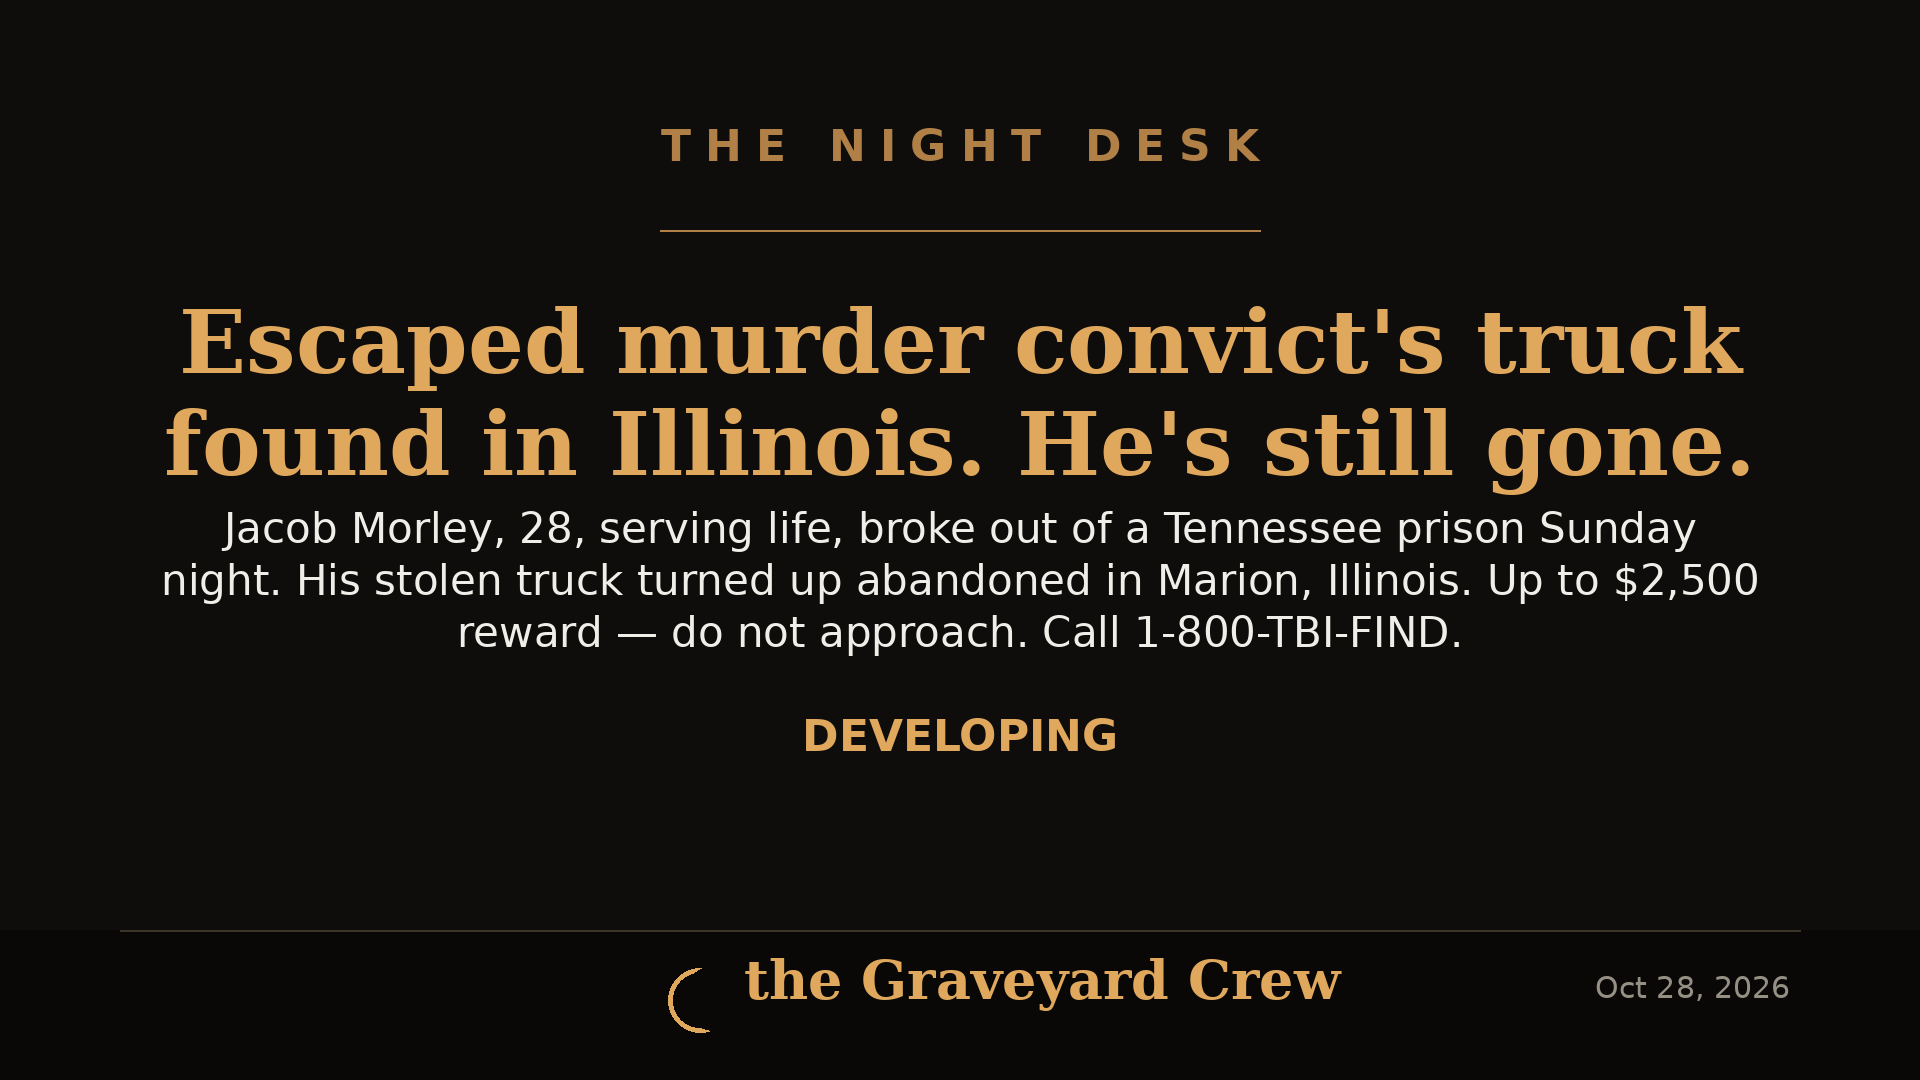
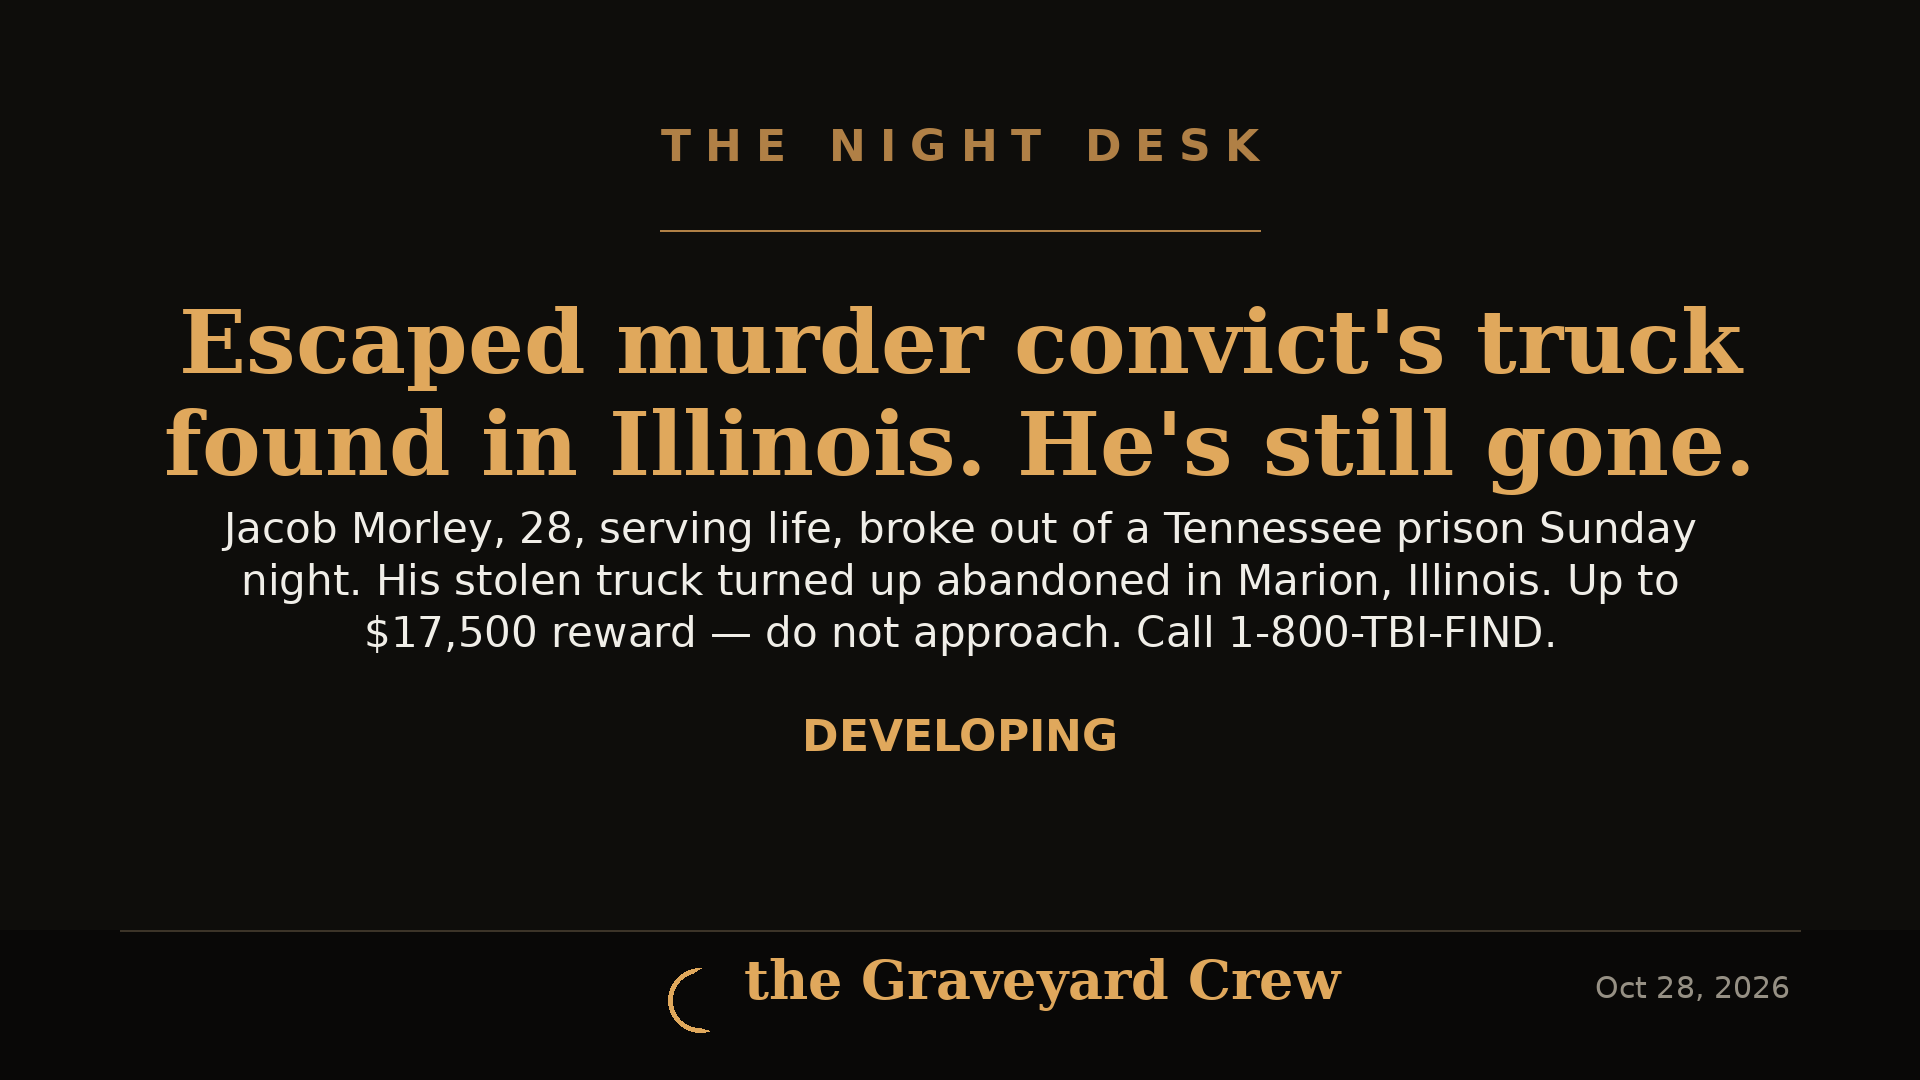
morley: reward updated to $17,500, card rebuilt

Changed region(s): [[0.0938, 0.5194, 0.9375, 0.6111]]

diff --git a/articles/morley-manhunt-illinois-truck.html b/articles/morley-manhunt-illinois-truck.html
@@ -4,21 +4,21 @@
 <meta charset="utf-8">
 <meta name="viewport" content="width=device-width,initial-scale=1">
 <title>Manhunt crosses state lines: escaped Tennessee murder convict&#x27;s stolen truck found abandoned in Illinois &mdash; The Night Desk</title>
-<meta name="description" content="Jacob Allen Morley, 28, serving life for the 2022 murder of his coworker Cody Birchfield, escaped a Tennessee prison Sunday night. The truck he stole was found abandoned early Tuesday in Marion, Illinois — Morley himself is still missing, and the TBI is offering up to $2,500 for information leading to his arrest.">
+<meta name="description" content="Jacob Allen Morley, 28, serving life for the 2022 murder of his coworker Cody Birchfield, escaped a Tennessee prison Sunday night. The truck he stole was found abandoned early Tuesday in Marion, Illinois — Morley himself is still missing, and a $17,500 reward is now offered for information leading to his arrest.">
 <link rel="canonical" href="https://midnightmichigan.github.io/night-desk/articles/morley-manhunt-illinois-truck.html">
 <link rel="alternate" type="application/rss+xml" href="https://midnightmichigan.github.io/night-desk/feed.xml">
 <meta property="og:type" content="article">
 <meta property="og:site_name" content="The Night Desk">
 <meta property="og:title" content="Manhunt crosses state lines: escaped Tennessee murder convict&#x27;s stolen truck found abandoned in Illinois">
-<meta property="og:description" content="Jacob Allen Morley, 28, serving life for the 2022 murder of his coworker Cody Birchfield, escaped a Tennessee prison Sunday night. The truck he stole was found abandoned early Tuesday in Marion, Illinois — Morley himself is still missing, and the TBI is offering up to $2,500 for information leading to his arrest.">
+<meta property="og:description" content="Jacob Allen Morley, 28, serving life for the 2022 murder of his coworker Cody Birchfield, escaped a Tennessee prison Sunday night. The truck he stole was found abandoned early Tuesday in Marion, Illinois — Morley himself is still missing, and a $17,500 reward is now offered for information leading to his arrest.">
 <meta property="og:url" content="https://midnightmichigan.github.io/night-desk/articles/morley-manhunt-illinois-truck.html">
 <meta property="og:image" content="https://midnightmichigan.github.io/night-desk/assets/img/morley-manhunt-card.png">
 <meta property="article:published_time" content="2026-10-28">
 <meta name="twitter:card" content="summary_large_image">
 <meta name="twitter:title" content="Manhunt crosses state lines: escaped Tennessee murder convict&#x27;s stolen truck found abandoned in Illinois">
-<meta name="twitter:description" content="Jacob Allen Morley, 28, serving life for the 2022 murder of his coworker Cody Birchfield, escaped a Tennessee prison Sunday night. The truck he stole was found abandoned early Tuesday in Marion, Illinois — Morley himself is still missing, and the TBI is offering up to $2,500 for information leading to his arrest.">
+<meta name="twitter:description" content="Jacob Allen Morley, 28, serving life for the 2022 murder of his coworker Cody Birchfield, escaped a Tennessee prison Sunday night. The truck he stole was found abandoned early Tuesday in Marion, Illinois — Morley himself is still missing, and a $17,500 reward is now offered for information leading to his arrest.">
 <meta name="twitter:image" content="https://midnightmichigan.github.io/night-desk/assets/img/morley-manhunt-card.png">
-<script type="application/ld+json">{"@context": "https://schema.org", "@type": "NewsArticle", "headline": "Manhunt crosses state lines: escaped Tennessee murder convict's stolen truck found abandoned in Illinois", "description": "Jacob Allen Morley, 28, serving life for the 2022 murder of his coworker Cody Birchfield, escaped a Tennessee prison Sunday night. The truck he stole was found abandoned early Tuesday in Marion, Illinois — Morley himself is still missing, and the TBI is offering up to $2,500 for information leading to his arrest.", "url": "https://midnightmichigan.github.io/night-desk/articles/morley-manhunt-illinois-truck.html", "datePublished": "2026-10-28", "publisher": {"@type": "Organization", "name": "The Night Desk", "url": "https://midnightmichigan.github.io/night-desk/"}, "image": ["https://midnightmichigan.github.io/night-desk/assets/img/morley-manhunt-card.png"]}</script>
+<script type="application/ld+json">{"@context": "https://schema.org", "@type": "NewsArticle", "headline": "Manhunt crosses state lines: escaped Tennessee murder convict's stolen truck found abandoned in Illinois", "description": "Jacob Allen Morley, 28, serving life for the 2022 murder of his coworker Cody Birchfield, escaped a Tennessee prison Sunday night. The truck he stole was found abandoned early Tuesday in Marion, Illinois — Morley himself is still missing, and a $17,500 reward is now offered for information leading to his arrest.", "url": "https://midnightmichigan.github.io/night-desk/articles/morley-manhunt-illinois-truck.html", "datePublished": "2026-10-28", "publisher": {"@type": "Organization", "name": "The Night Desk", "url": "https://midnightmichigan.github.io/night-desk/"}, "image": ["https://midnightmichigan.github.io/night-desk/assets/img/morley-manhunt-card.png"]}</script>
 <link rel="stylesheet" href="../assets/css/style.css">
 </head>
 <body>
@@ -51,18 +51,18 @@
 <p>He was convicted in the killing of <strong>Cody Birchfield</strong>, who was initially reported missing in February 2022, according to the Carter County Sheriff&#x27;s Office. Birchfield&#x27;s body was found weeks after he went missing, in a box under Morley&#x27;s house, The Associated Press reported.</p>
 <p>A cousin of Birchfield&#x27;s told CNN that Morley&#x27;s life sentence gave the family &quot;a small sense of closure and the reassurance that justice had been served&quot; — and that learning of his escape has reopened their &quot;deepest wounds.&quot; The family urged anyone with information to come forward, and asked that Cody be remembered &quot;not for the tragedy of his death, but for the warmth, kindness, and decency of his life.&quot;</p>
 <h2>What to do if you see him</h2>
-<p>Morley is now on the <strong>TBI&#x27;s Most Wanted list</strong>, with a <strong>reward of up to $2,500</strong> for information leading to his arrest. He is described as 5 feet 11 inches tall, about 240 pounds, with brown hair and green eyes, and should be considered dangerous.</p>
-<p><strong>Do not approach him. Call 911 or 1-800-TBI-FIND.</strong></p>
+<p>Morley is now on the <strong>TBI&#x27;s Most Wanted list</strong>, with a <strong>$17,500 reward</strong> for information leading to his arrest — Gov. Bill Lee raised the state&#x27;s reward to $10,000 on Oct. 28, the U.S. Marshals Service added $5,000, and the TBI contributed another $2,500 on Oct. 29 (The Tennessean). He is described as 5 feet 11 inches tall, about 240 pounds, with brown hair and green eyes, and should be considered dangerous. As of Oct. 29 he remained at large.</p>
+<p><strong>Do not approach him. Call 911, TDOC at 844-832-3463, or TBI at 1-800-TBI-FIND.</strong></p>
 <p><em>This is a developing story. The Night Desk will update this article as the manhunt continues.</em></p>
 <!-- AD SLOT: in-article-bottom -->
 <p class="source-line">Source: CNN &mdash; <a href="https://kioncentralcoast.com/news/national-world/cnn-national/2026/10/28/manhunt-for-escaped-tennessee-murder-convict-crosses-state-lines-after-his-stolen-truck-is-found-abandoned-in-illinois/">read the original report</a></p>
 <aside class="related"><h3>RELATED STORIES</h3><div class="related-grid"><div class="related-card"><img src="../assets/img/franklin-montgomery-barricade-card.png" alt="" loading="lazy"><div class="rt">
 <p class="rdate">October 08, 2026</p>
-<a href="franklin-township-nj-montgomery-murder-barricade.html">Barricade ends in murder charge: NJ man accused in stabbing death after overnight standoff</a></div></div><div class="related-card"><img src="../assets/img/brown-shooting-card.png" alt="" loading="lazy"><div class="rt">
+<a href="franklin-township-nj-montgomery-murder-barricade.html">Barricade ends in murder charge: NJ man accused in stabbing death after overnight standoff</a></div></div><div class="related-card"><img src="../assets/img/auburn-lane-cold-case-card.png" alt="" loading="lazy"><div class="rt">
+<p class="rdate">October 06, 2026</p>
+<a href="auburn-lane-cold-case.html">Auburn Cold Case: $5,000 Reward Offered in the 2017 Killing of Herman &quot;Ce-Ce&quot; Lane</a></div></div><div class="related-card"><img src="../assets/img/brown-shooting-card.png" alt="" loading="lazy"><div class="rt">
 <p class="rdate">October 05, 2026</p>
-<a href="brown-university-shooting-manhunt.html">Brown University shooting manhunt: FBI offers $50,000 reward as new suspect video released</a></div></div><div class="related-card"><img src="../assets/img/knoxville-huff-truck.jpg" alt="" loading="lazy"><div class="rt">
-<p class="rdate">October 05, 2026</p>
-<a href="knoxville-huff-manhunt-day-2.html">Manhunt Day 2: Corey Huff Fled Into the Woods After Police Pursuit</a></div></div></div></aside>
+<a href="brown-university-shooting-manhunt.html">Brown University shooting manhunt: FBI offers $50,000 reward as new suspect video released</a></div></div></div></aside>
 <nav class="prevnext"><a href="bundy-melissa-smith-dna.html">&larr; Newer: 52 years later, DNA ties Ted Bundy to the murder of Melissa Ann Smith</a><a class="pn-next" href="spokane-turner-cold-case-arrest.html">Older: Nearly 40 years later: arrest in the 1986 Spokane cold-case murder of Mary Ann Turner &rarr;</a></nav>
 <a class="back" href="../index.html">&larr; Back to latest stories</a>
 </article></main>

diff --git a/articles/ai-face-match-wrongful-arrest.html b/articles/ai-face-match-wrongful-arrest.html
@@ -68,11 +68,11 @@
 <p class="source-line">Source: Fox News Digital / WVLT &mdash; <a href="https://www.wvlt.tv/2026/09/17/east-tn-woman-mistakenly-jailed-months-after-ai-flagged-her-bank-fraud-suspect-lawsuit-says/">read the original report</a></p>
 <aside class="related"><h3>RELATED STORIES</h3><div class="related-grid"><div class="related-card"><img src="../assets/img/chicago-teens-charged-card.png" alt="" loading="lazy"><div class="rt">
 <p class="rdate">October 03, 2026</p>
-<a href="chicago-teens-charged-murder.html">2 Teens Charged in January Murder of 17-Year-Old Chicago Girl</a></div></div><div class="related-card"><img src="../assets/img/louise-lucas-indicted-card.png" alt="" loading="lazy"><div class="rt">
+<a href="chicago-teens-charged-murder.html">2 Teens Charged in January Murder of 17-Year-Old Chicago Girl</a></div></div><div class="related-card"><img src="../assets/img/morley-manhunt-card.png" alt="" loading="lazy"><div class="rt">
+<p class="rdate">October 28, 2026</p>
+<a href="morley-manhunt-illinois-truck.html">Manhunt crosses state lines: escaped Tennessee murder convict&#x27;s stolen truck found abandoned in Illinois</a></div></div><div class="related-card"><img src="../assets/img/louise-lucas-indicted-card.png" alt="" loading="lazy"><div class="rt">
 <p class="rdate">October 22, 2026</p>
-<a href="louise-lucas-indicted.html">Virginia State Sen. L. Louise Lucas Indicted on Federal Racketeering, Marijuana Charges</a></div></div><div class="related-card"><img src="../assets/img/smyrna-murder-suspect-caught-card.png" alt="" loading="lazy"><div class="rt">
-<p class="rdate">October 09, 2026</p>
-<a href="smyrna-murder-suspect-caught-car-breakins.html">Wanted for Murder Since July — Caught Breaking Into Parked Cars</a></div></div></div></aside>
+<a href="louise-lucas-indicted.html">Virginia State Sen. L. Louise Lucas Indicted on Federal Racketeering, Marijuana Charges</a></div></div></div></aside>
 <nav class="prevnext"><a href="northridge-artist-lounge-shooting-suspect-at-large.html">&larr; Newer: Two Young People Shot Dead at Packed Open Mic Night in Northridge — Gunman Still at Large</a><a class="pn-next" href="medical-plane-nantucket.html">Older: BREAKING: Medical plane with 6 aboard vanishes near Nantucket — debris found tonight &rarr;</a></nav>
 <a class="back" href="../index.html">&larr; Back to latest stories</a>
 </article></main>

diff --git a/articles/auburn-lane-cold-case.html b/articles/auburn-lane-cold-case.html
@@ -63,9 +63,9 @@
 <p class="rdate">October 24, 2026</p>
 <a href="spokane-turner-cold-case-arrest.html">Nearly 40 years later: arrest in the 1986 Spokane cold-case murder of Mary Ann Turner</a></div></div><div class="related-card"><img src="../assets/img/grant-booking-1.jpg" alt="" loading="lazy"><div class="rt">
 <p class="rdate">October 16, 2026</p>
-<a href="buck-cold-case-arrest.html">Arrest in 1995 killing of Angela &quot;Angie&quot; Buck — 31-year cold case cracked in Iowa</a></div></div><div class="related-card"><img src="../assets/img/phoenix-midnight-shooting-card.png" alt="" loading="lazy"><div class="rt">
-<p class="rdate">October 03, 2026</p>
-<a href="phoenix-midnight-shooting-arrest.html">Midnight shooting in Phoenix: driver shot dead behind the wheel, suspect cornered in nearby apartment</a></div></div></div></aside>
+<a href="buck-cold-case-arrest.html">Arrest in 1995 killing of Angela &quot;Angie&quot; Buck — 31-year cold case cracked in Iowa</a></div></div><div class="related-card"><img src="../assets/img/morley-manhunt-card.png" alt="" loading="lazy"><div class="rt">
+<p class="rdate">October 28, 2026</p>
+<a href="morley-manhunt-illinois-truck.html">Manhunt crosses state lines: escaped Tennessee murder convict&#x27;s stolen truck found abandoned in Illinois</a></div></div></div></aside>
 <nav class="prevnext"><a href="vietnam-cat-theft-ring-arrests.html">&larr; Newer: Vietnam cat-theft ring busted: 12 arrested after 2,700 cats stolen for meat</a><a class="pn-next" href="marion-oh-standoff-arrest.html">Older: 10-hour standoff in Marion, Ohio ends with man&#x27;s arrest — he fired shots at police during the takedown &rarr;</a></nav>
 <a class="back" href="../index.html">&larr; Back to latest stories</a>
 </article></main>

diff --git a/index.html b/index.html
@@ -41,7 +41,7 @@
 <div class="txt">
 <p class="date">October 28, 2026</p>
 <h2><a href="articles/morley-manhunt-illinois-truck.html">Manhunt crosses state lines: escaped Tennessee murder convict&#x27;s stolen truck found abandoned in Illinois</a></h2>
-<p class="dek">Jacob Allen Morley, 28, serving life for the 2022 murder of his coworker Cody Birchfield, escaped a Tennessee prison Sunday night. The truck he stole was found abandoned early Tuesday in Marion, Illinois — Morley himself is still missing, and the TBI is offering up to $2,500 for information leading to his arrest.</p>
+<p class="dek">Jacob Allen Morley, 28, serving life for the 2022 murder of his coworker Cody Birchfield, escaped a Tennessee prison Sunday night. The truck he stole was found abandoned early Tuesday in Marion, Illinois — Morley himself is still missing, and a $17,500 reward is now offered for information leading to his arrest.</p>
 <a class="read" href="articles/morley-manhunt-illinois-truck.html">READ THE STORY &rarr;</a>
 </div></div>
 <div class="feed-card">
